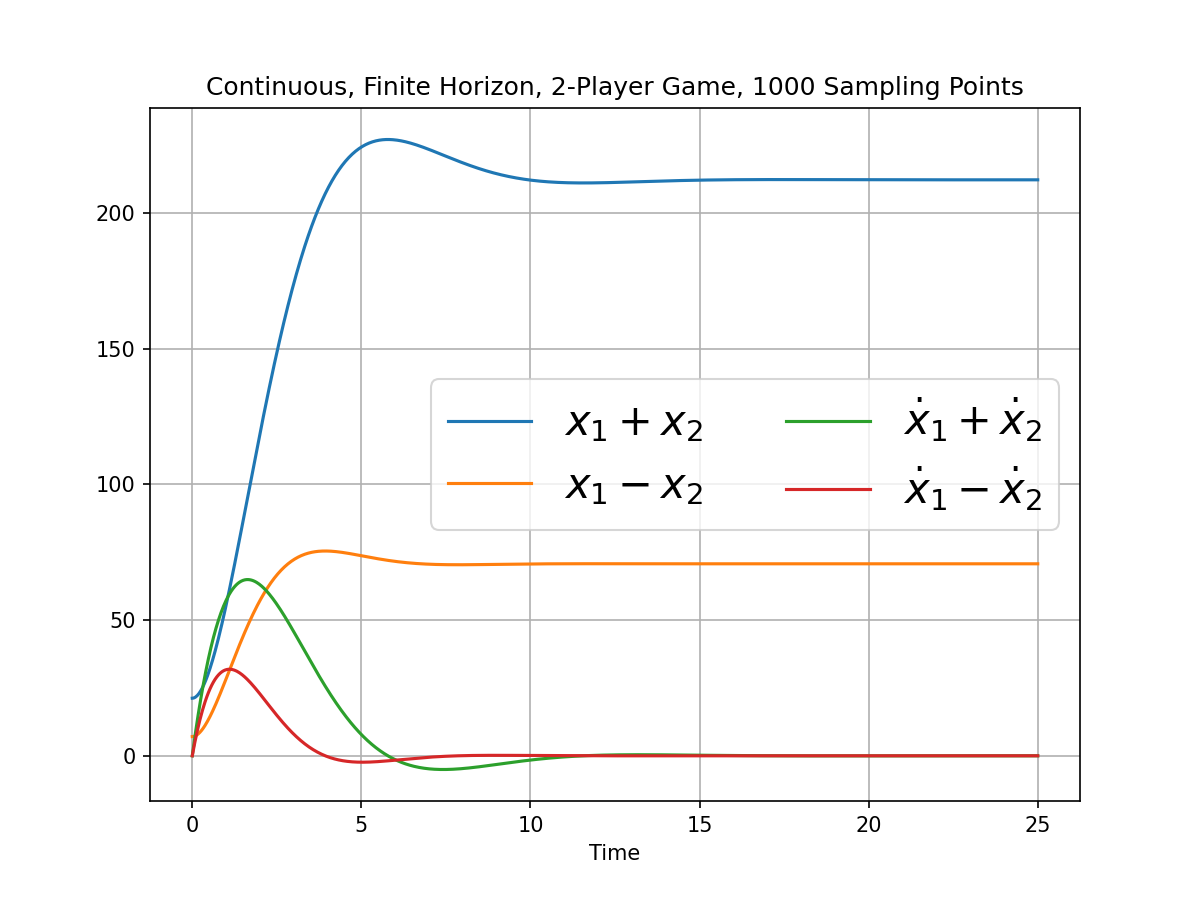
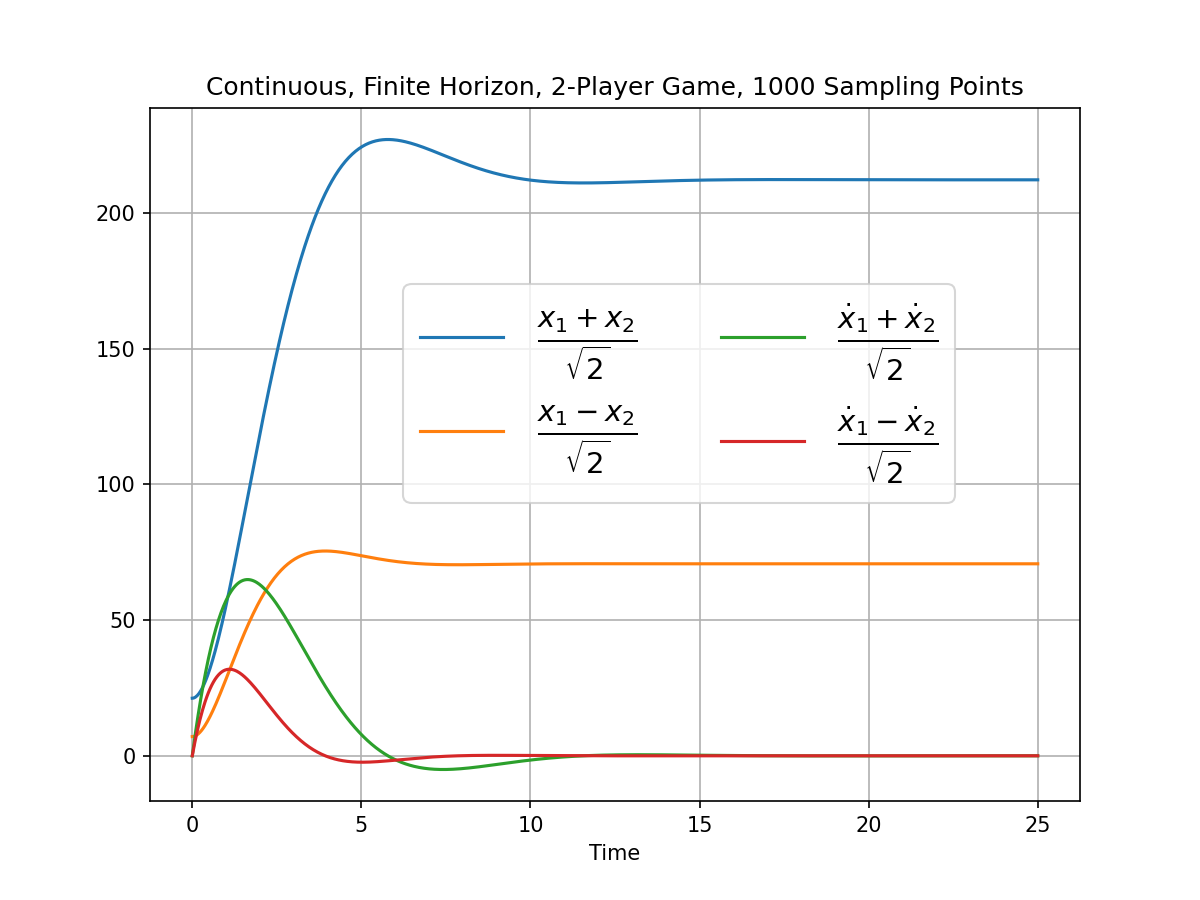
3.2 update

diff --git a/src/PyDiffGame/examples/MassesWithSpringsComparison.py b/src/PyDiffGame/examples/MassesWithSpringsComparison.py
@@ -32,8 +32,7 @@ class MassesWithSpringsComparison(PyDiffGameLQRComparison):
 
         if Ms is None:
             eigenvectors = np.linalg.eig(M_inv_K)[1]
-            Ms = [eigenvector.reshape(1, N) / eigenvector[0] for eigenvector in eigenvectors]
-            Ms = [a / np.linalg.norm(a) ** 2 for a in Ms]
+            Ms = [eigenvector.reshape(1, N) for eigenvector in eigenvectors]
 
         A = np.block([[Z_N, I_N],
                       [-M_inv_K, Z_N]])
@@ -49,6 +48,9 @@ class MassesWithSpringsComparison(PyDiffGameLQRComparison):
 
         M = np.concatenate(Ms,
                            axis=0)
+
+        assert np.all(np.abs(np.linalg.inv(M) - M.T) < 10e-12)
+
         Q_mat = np.kron(a=np.eye(2),
                         b=M)
 
@@ -134,6 +136,12 @@ class MassesWithSpringsComparison(PyDiffGameLQRComparison):
         return all_unit_vectors
 
 
+N2_output_variables_names = ['$\\frac{x_1 + x_2}{\\sqrt{2}}$',
+                             '$\\frac{x_1 - x_2}{\\sqrt{2}}$',
+                             '$\\frac{\\dot{x}_1 + \\dot{x}_2}{\\sqrt{2}}$',
+                             '$\\frac{\\dot{x}_1 - \\dot{x}_2}{\\sqrt{2}}$']
+
+
 def multiprocess_worker_function(N: int,
                                  k: float,
                                  m: float,
@@ -144,7 +152,7 @@ def multiprocess_worker_function(N: int,
     x_0 = np.array([10 * i for i in range(1, N + 1)] + [0] * N)
     x_T = x_0 * 10 if N == 2 else np.array([(10 * i) ** 3 for i in range(1, N + 1)] + [0] * N)
 
-    output_variables_names = ['$x_1 + x_2$', '$x_1 - x_2$', '$\\dot{x}_1 + \\dot{x}_2$', '$\\dot{x}_1 - \\dot{x}_2$'] \
+    output_variables_names = N2_output_variables_names \
         if N == 2 else [f'$q_{i}$' for i in range(1, N + 1)] + ['$\\dot{q}_{' + str(i) + '}$' for i in range(1, N + 1)]
 
     T_f = 25
@@ -180,32 +188,32 @@ if __name__ == '__main__':
     qs = [[500, 2000], [500, 250]] if N == 2 else \
         [[500 * (1 + d) ** i for i in range(N)], [500 * (1 - d) ** i for i in range(N)]]
 
-    N, k, m, r, epsilon_x, epsilon_P = Ns[0], ks[0], ms[0], rs[0], epsilon_xs[0], epsilon_Ps[0]
-    q = [500, 2000] if N == 2 else [500 * (1 + d) ** i for i in range(N)]
-    x_0 = np.array([10 * i for i in range(1, N + 1)] + [0] * N)
-    x_T = x_0 * 10 if N == 2 else np.array([(10 * i) ** 3 for i in range(1, N + 1)] + [0] * N)
+    # N, k, m, r, epsilon_x, epsilon_P = Ns[0], ks[0], ms[0], rs[0], epsilon_xs[0], epsilon_Ps[0]
+    # q = [500, 2000] if N == 2 else [500 * (1 + d) ** i for i in range(N)]
+    # x_0 = np.array([10 * i for i in range(1, N + 1)] + [0] * N)
+    # x_T = x_0 * 10 if N == 2 else np.array([(10 * i) ** 3 for i in range(1, N + 1)] + [0] * N)
+    #
+    # masses_with_springs = MassesWithSpringsComparison(N=N,
+    #                                                   m=m,
+    #                                                   k=k,
+    #                                                   q=q,
+    #                                                   r=r,
+    #                                                   x_0=x_0,
+    #                                                   x_T=x_T,
+    #                                                   T_f=25,
+    #                                                   epsilon_x=epsilon_x,
+    #                                                   epsilon_P=epsilon_P)
+    #
+    # output_variables_names = N2_output_variables_names \
+    #     if N == 2 else [f'$q_{i}$' for i in range(1, N + 1)] + ['$\\dot{q}_{' + str(i) + '}$' for i in range(1, N + 1)]
+    #
+    # masses_with_springs(plot_state_spaces=True,
+    #                     plot_Mx=True,
+    #                     output_variables_names=output_variables_names,
+    #                     save_figure=True,
+    #                     figure_filename=masses_with_springs.figure_filename_generator
+    #                     )
 
-    masses_with_springs = MassesWithSpringsComparison(N=N,
-                                                      m=m,
-                                                      k=k,
-                                                      q=q,
-                                                      r=r,
-                                                      x_0=x_0,
-                                                      x_T=x_T,
-                                                      # T_f=25,
-                                                      epsilon_x=epsilon_x,
-                                                      epsilon_P=epsilon_P)
-
-    output_variables_names = ['$x_1 + x_2$', '$x_1 - x_2$', '$\\dot{x}_1 + \\dot{x}_2$', '$\\dot{x}_1 - \\dot{x}_2$'] \
-        if N == 2 else [f'$q_{i}$' for i in range(1, N + 1)] + ['$\\dot{q}_{' + str(i) + '}$' for i in range(1, N + 1)]
-
-    masses_with_springs(plot_state_spaces=True,
-                        plot_Mx=True,
-                        output_variables_names=output_variables_names,
-                        save_figure=True,
-                        figure_filename=masses_with_springs.figure_filename_generator
-                        )
-
-    # params = [Ns, ks, ms, qs, rs, epsilon_xs, epsilon_Ps]
-    # PyDiffGameLQRComparison.run_multiprocess(multiprocess_worker_function=multiprocess_worker_function,
-    #                                          values=params)
+    params = [Ns, ks, ms, qs, rs, epsilon_xs, epsilon_Ps]
+    PyDiffGameLQRComparison.run_multiprocess(multiprocess_worker_function=multiprocess_worker_function,
+                                             values=params)

diff --git a/src/PyDiffGame/PyDiffGame.py b/src/PyDiffGame/PyDiffGame.py
@@ -458,7 +458,7 @@ class PyDiffGame(ABC, Callable, Sequence):
                        loc='upper left' if is_P else 'best',
                        ncol=2,
                        prop={'size': int(80 / self._n)},
-                       # bbox_to_anchor=(1, 0.5)
+                       bbox_to_anchor=(0.25, 0.4)
                        )
 
         plt.grid()
@@ -835,7 +835,7 @@ class PyDiffGame(ABC, Callable, Sequence):
 
     def __solve_game_simulate_state_space_and_plot(self,
                                                    plot_Mx: Optional[bool] = False,
-                                                   # M: Optional[np.array] = None,
+                                                   M: Optional[np.array] = None,
                                                    output_variables_names: Optional[Sequence[str]] = None):
         """
         Propagates the game through time, solves for it and plots the state with respect to time
@@ -846,9 +846,9 @@ class PyDiffGame(ABC, Callable, Sequence):
         if self._x_0 is not None:
             self.__plot_x()
 
-            if plot_Mx and (not self.is_LQR()) and self._n % self._m == 0:
+            if plot_Mx and self._n % self._m == 0:
                 C = np.kron(a=np.eye(int(self._n / self._m)),
-                            b=self._M)
+                            b=M)
                 self.__plot_y(C=C,
                               output_variables_names=output_variables_names)
 
@@ -1123,6 +1123,7 @@ class PyDiffGame(ABC, Callable, Sequence):
     def __call__(self,
                  plot_state_space: Optional[bool] = True,
                  plot_Mx: Optional[bool] = False,
+                 M: Optional[np.array] = None,
                  output_variables_names: Optional[Sequence[str]] = None,
                  save_figure: Optional[bool] = False,
                  figure_path: Optional[str | Path] = _default_figures_path,
@@ -1153,6 +1154,7 @@ class PyDiffGame(ABC, Callable, Sequence):
 
         if plot_state_space:
             self.__solve_game_simulate_state_space_and_plot(plot_Mx=plot_Mx,
+                                                            M=M,
                                                             output_variables_names=output_variables_names)
             if save_figure:
                 self.__save_figure(figure_path=figure_path,

diff --git a/src/PyDiffGame/PyDiffGameLQRComparison.py b/src/PyDiffGame/PyDiffGameLQRComparison.py
@@ -122,6 +122,7 @@ class PyDiffGameLQRComparison(ABC, Callable, Sequence):
         for i, game_i in self._games.items():
             game_i(plot_state_space=plot_state_spaces,
                    plot_Mx=plot_Mx,
+                   M=self.__M,
                    output_variables_names=output_variables_names,
                    save_figure=save_figure,
                    figure_path=figure_path,
